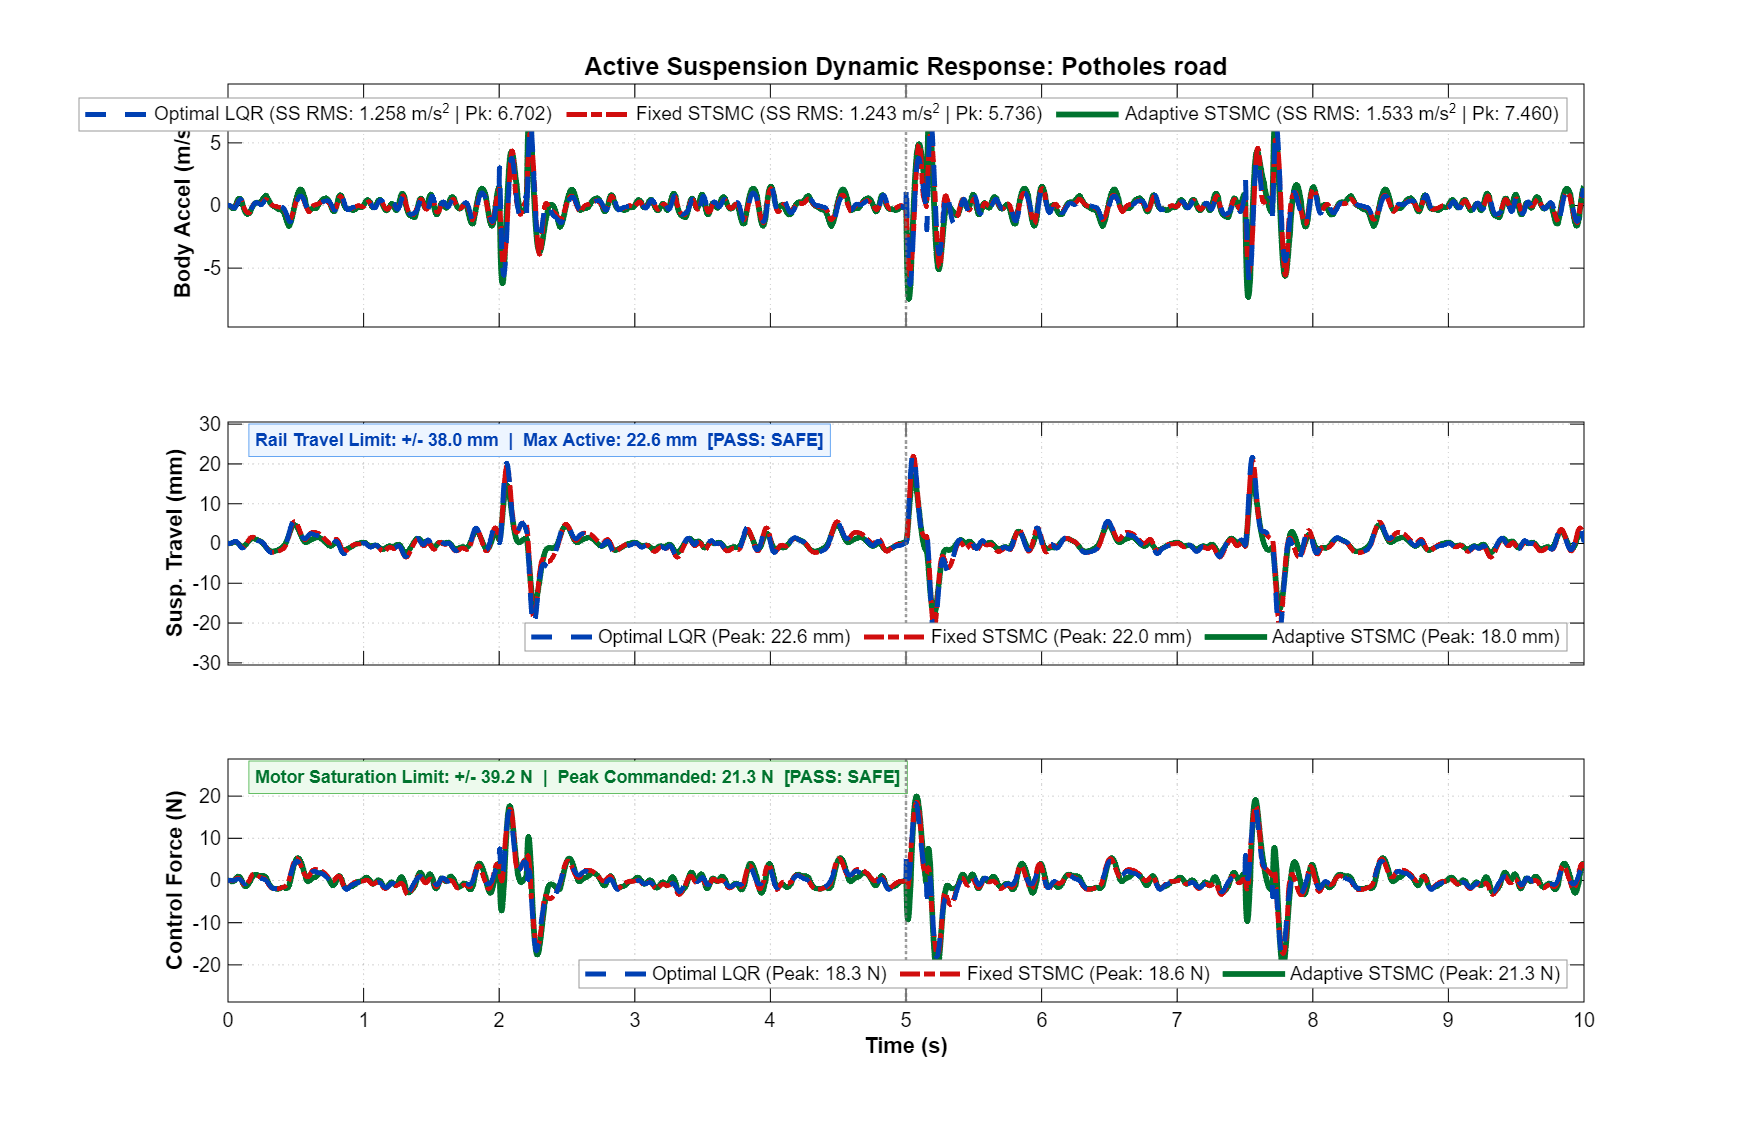
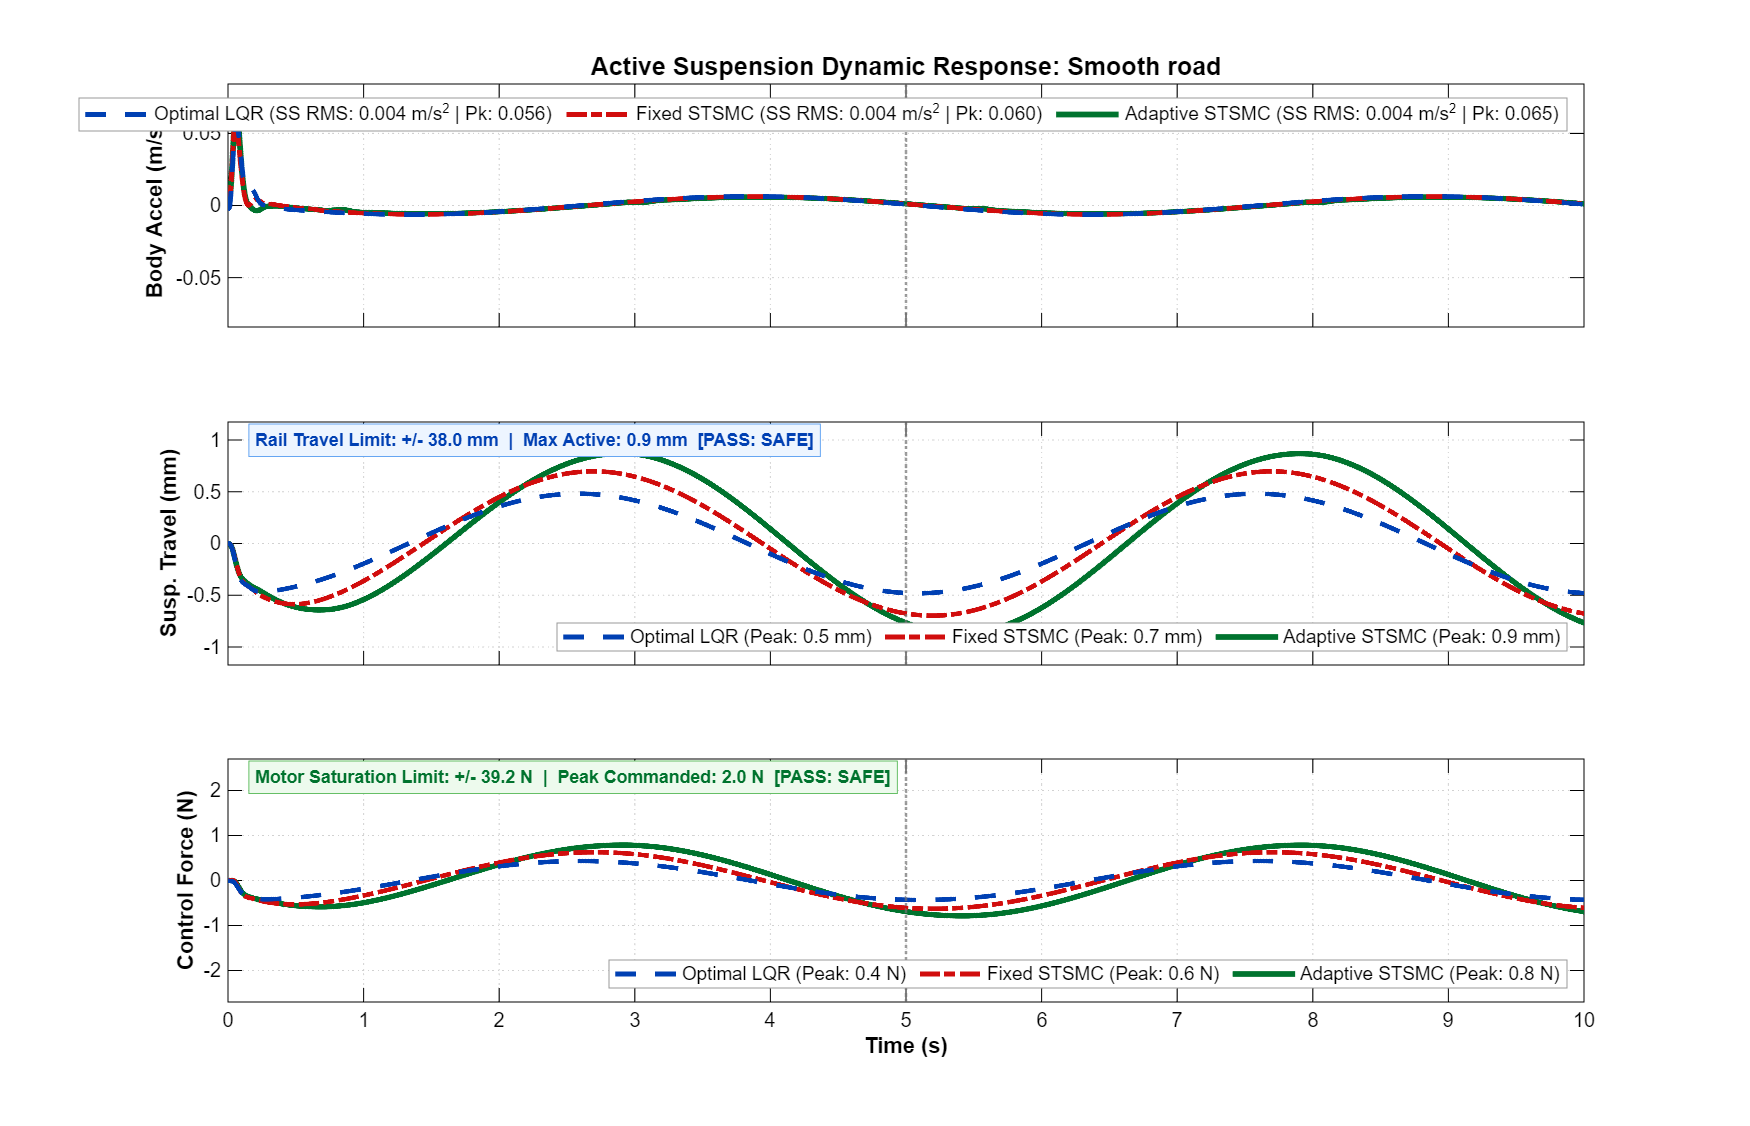
Auto-align project directory and safe-guard results path in plot_comparisons to resolve saveas path error

diff --git a/plot_comparisons.m b/plot_comparisons.m
@@ -167,6 +167,15 @@ function fig = plot_comparisons(res, road_title, fig_num)
 
     linkaxes([ax1, ax2, ax3], 'x');
 
-    if ~exist('results', 'dir'), mkdir('results'); end
-    saveas(fig, fullfile('results', 'last_simulation_response.png'));
+    % Save copy to results directory safely without interrupting plot display
+    try
+        proj_dir = fileparts(mfilename('fullpath'));
+        if isempty(proj_dir), proj_dir = pwd; end
+        res_dir = fullfile(proj_dir, 'results');
+        if ~exist(res_dir, 'dir'), mkdir(res_dir); end
+        saveas(fig, fullfile(res_dir, sprintf('Figure%d_Simulation_Response.png', fig_num)));
+        saveas(fig, fullfile(res_dir, 'last_simulation_response.png'));
+    catch
+        % Non-critical background disk write failure should never stop the figure display
+    end
 end

diff --git a/run_simulink_and_plots.m b/run_simulink_and_plots.m
@@ -25,6 +25,13 @@ function run_simulink_and_plots(road_id)
 %   run_simulink_and_plots(5)       % Opens Simulink model and plots Road 5: Pulse road (Figure 5)
 %   run_simulink_and_plots(6)       % Opens Simulink model and plots Road 6: Potholes road (Figure 6)
 
+    % Auto-align MATLAB directory to project folder
+    proj_dir = fileparts(mfilename('fullpath'));
+    if ~isempty(proj_dir) && ~strcmp(pwd, proj_dir)
+        cd(proj_dir);
+        addpath(genpath(proj_dir));
+    end
+
     if nargin < 1 || isempty(road_id) || (ischar(road_id) && strcmpi(road_id, 'all'))
         run_roads = 1:6;
     elseif ischar(road_id)

diff --git a/simulate_case.m b/simulate_case.m
@@ -20,6 +20,13 @@ function results = simulate_case(road_num, show_plot)
 %   simulate_case(5)        % Runs Road 5: Pulse road
 %   simulate_case(6)        % Runs Road 6: Potholes road
 
+    % Ensure current directory is the project directory
+    proj_dir = fileparts(mfilename('fullpath'));
+    if ~isempty(proj_dir) && ~strcmp(pwd, proj_dir)
+        cd(proj_dir);
+        addpath(genpath(proj_dir));
+    end
+
     if nargin < 1 || isempty(road_num)
         road_num = 1; % Default: Smooth road
     end

diff --git a/run_all_road_plots.m b/run_all_road_plots.m
@@ -4,4 +4,11 @@
 % Usage:
 %   run_all_road_plots
 
+% Auto-align MATLAB directory to project folder
+proj_dir = fileparts(mfilename('fullpath'));
+if ~isempty(proj_dir) && ~strcmp(pwd, proj_dir)
+    cd(proj_dir);
+    addpath(genpath(proj_dir));
+end
+
 run_simulink_and_plots('all');
